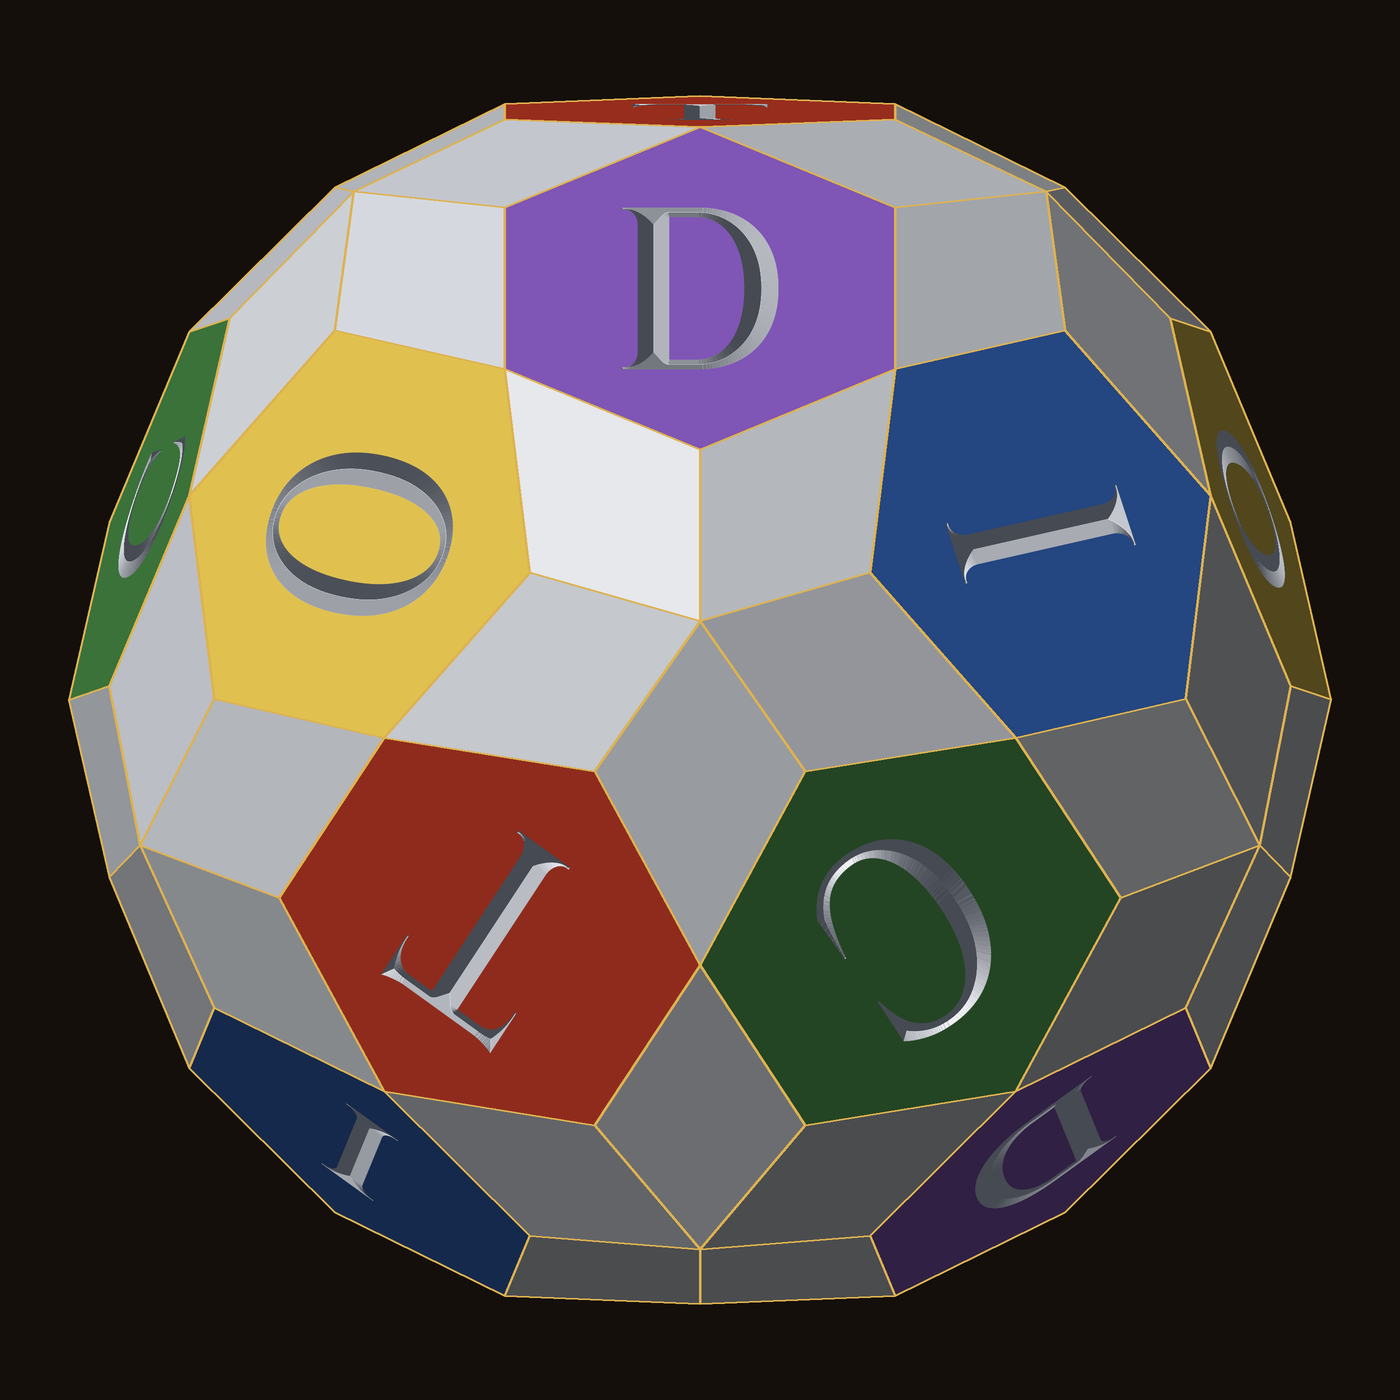
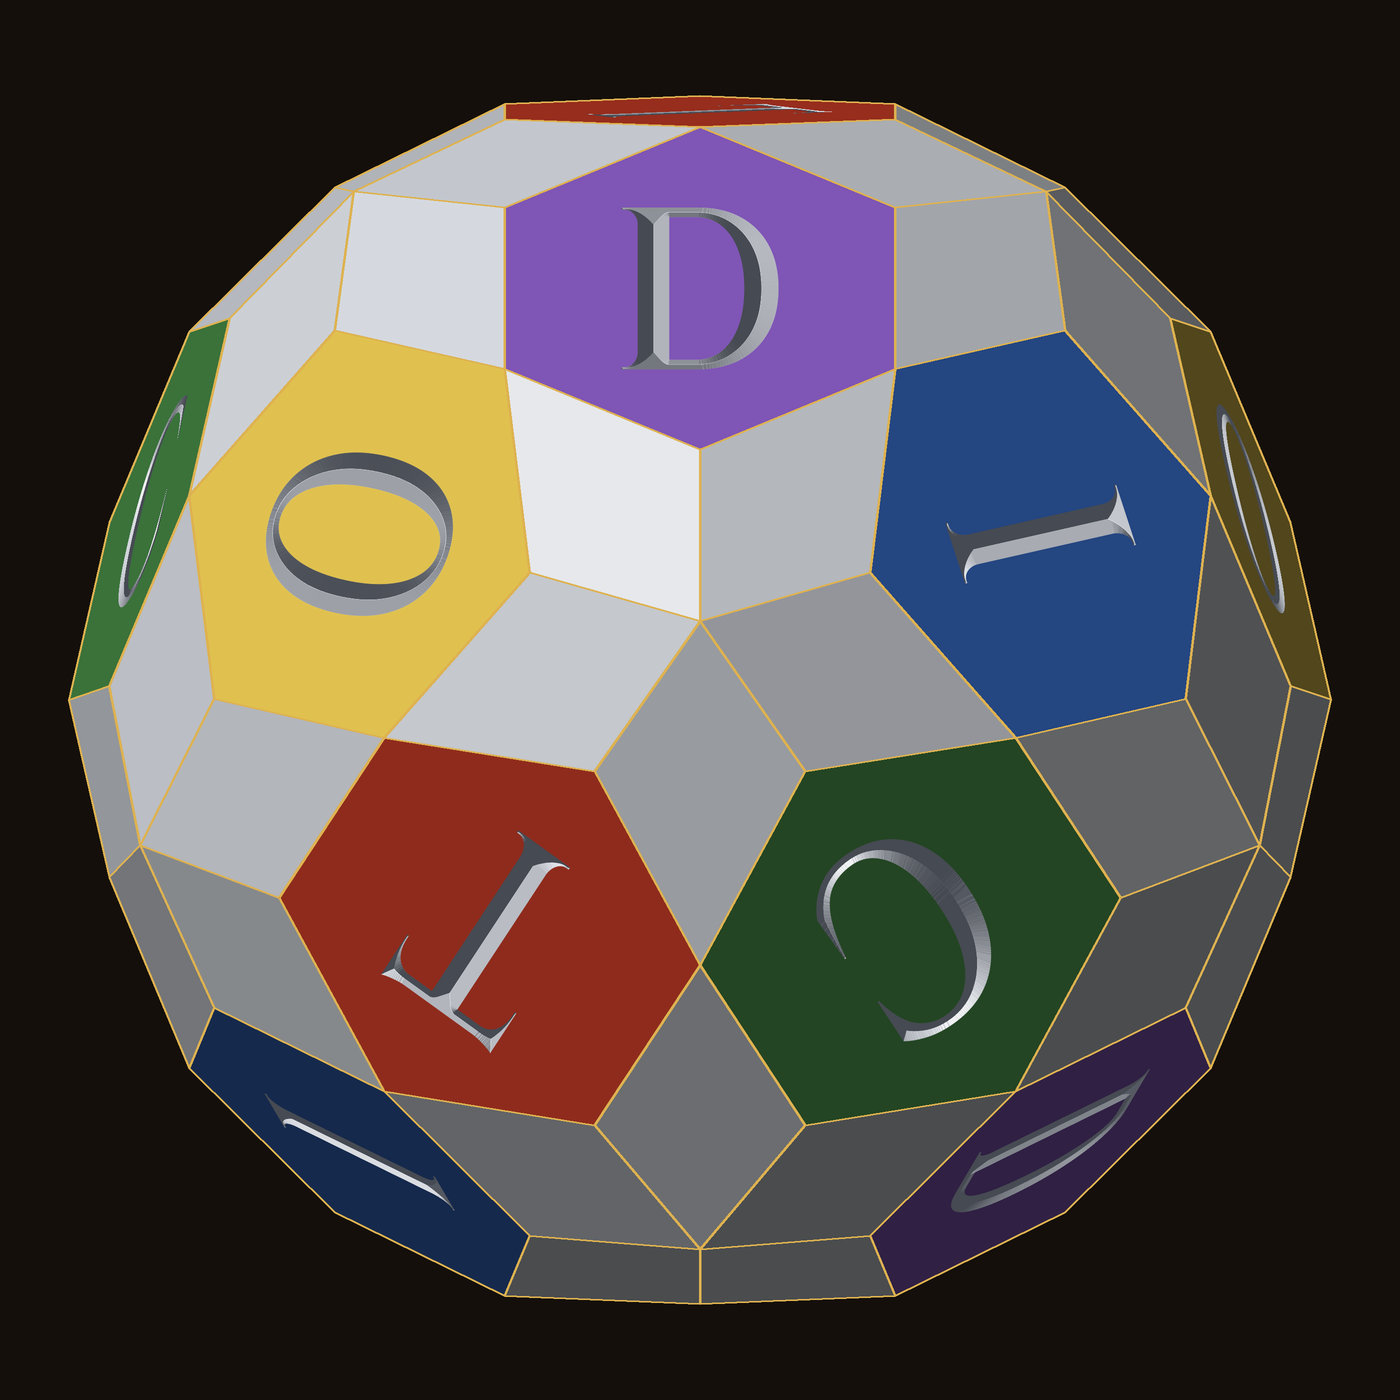
OG letters: each outer letter turned to its own star; lettering A kept; square-rule checks (DICTO)

diff --git a/studies/2026-10-22-dicto-square/og_letters.py b/studies/2026-10-22-dicto-square/og_letters.py
@@ -29,7 +29,14 @@ c0=V[ring[0]].mean(0); spin=math.atan2(c0[0],c0[1])     # turn so the first hexa
 V=V@rot((0,0,1),spin).T
 TILT=rot((1,0,0),-0.12)                                # a slight tilt, as in the figure
 V=V@TILT.T
-AXIS=np.array([0,0,1.0])@TILT.T                         # the five-fold axis through the star's centre
+AXIS=np.array([0,0,1.0])@TILT.T                         # the five-fold axis through the centre star
+# each hexagon lies round three stars; its own star is the one of those three that faces the viewer most
+# (for the five round the centre, the centre star); its letter lines up with that star (DICTO)
+STARS=[V[q]/np.linalg.norm(V[q]) for q in deg if deg[q]==5]
+OWN={}
+for f in [f for f in F if len(f)==6]:
+    c=V[f].mean(0)/np.linalg.norm(V[f].mean(0)); three=sorted(STARS,key=lambda a:-(a@c))[:3]
+    OWN[tuple(f)]=max(three,key=lambda a:a[2])
 ring_c={tuple(f):V[f].mean(0) for f in ring}
 order=sorted(ring,key=lambda f:(math.atan2(ring_c[tuple(f)][0],ring_c[tuple(f)][1])+0.6)%(2*math.pi))   # clockwise from the top
 RINGLET={tuple(f):ch for f,ch in zip(order,'DICTO')}
@@ -77,7 +84,7 @@ def render(img,cx,cy,rad,SS=2):
             # facet frame: U to the right on screen, Vv up on screen, both in the facet's plane
             # letters set in a circle round the centre of the star (DICTO): each letter's upright points away
             # from the five-fold axis through the star's centre, tops outward, like letters round a coin
-            c=V[f].mean(0); ax_=AXIS; rad=c-ax_*(c@ax_); Vv=rad-n*(rad@n); Vv/=np.linalg.norm(Vv); U=np.cross(Vv,n)
+            c=V[f].mean(0); ax_=OWN[tuple(f)]; rad=c-ax_*(c@ax_); Vv=rad-n*(rad@n); Vv/=np.linalg.norm(Vv); U=np.cross(Vv,n)
             r=np.linalg.norm(V[f]-c,axis=1).min()            # inradius-ish
             px=int(2*r*s*1.2); M,gx,gy=carve_tile(LET[tuple(f)],px)
             hx,hy=r*0.6,r*0.92                                   # elongated Trajan forms: tall and narrow

diff --git a/studies/2026-10-22-dicto-square/og_square_rule.py b/studies/2026-10-22-dicto-square/og_square_rule.py
@@ -1,0 +1,22 @@
+# The DICTO square's neighbour rule on the OG: in the square, side-by-side cells always hold letters that are
+# neighbours in the cycle D-I-C-T-O-D (D next to I or O, never C or T). Neighbouring hexagons on the OG are the
+# consecutive hexagons round a star (30 pairs). How many pairs can follow the rule at best?
+import json, random, numpy as np
+G=json.load(open('og-geometry.json')); V=np.array(G['v']); H=[f for f in G['f'] if len(f)==6]
+C=np.array([V[f].mean(0) for f in H]); C/=np.linalg.norm(C,axis=1)[:,None]; Dd=C@C.T
+E=[(i,j) for i in range(20) for j in range(i+1,20) if abs(Dd[i,j]-Dd[0][np.argsort(-Dd[0])[1]])<1e-6]
+print('neighbour pairs', len(E))
+good=lambda L,i,j: (L[i]-L[j])%5 in (1,4)
+best=0; random.seed(1); bestL=None
+for run in range(4000):
+    L=[random.randrange(5) for _ in range(20)]
+    for it in range(400):
+        i=random.randrange(20); old=L[i]; s0=sum(good(L,a,b) for a,b in E)
+        L[i]=random.randrange(5); s1=sum(good(L,a,b) for a,b in E)
+        if s1<s0 and random.random()>0.05: L[i]=old
+    s=sum(good(L,a,b) for a,b in E)
+    if s>best: best=s; bestL=L[:]
+print('best pairs following the rule:', best, 'of', len(E))
+print('letters used:', {c:bestL.count(k) for k,c in enumerate('DICTO')})
+# a proof bound: each of the 12 rings of five is an odd cycle; following the rule all round it would need DICTO
+# in order round that star (shown impossible for all 12 at once in og_star_letters.py); each pair lies in 2 rings.

diff --git a/studies/2026-10-22-dicto-square/README.md b/studies/2026-10-22-dicto-square/README.md
@@ -14,3 +14,4 @@ og_letters.py -> og-letters.png: the DICTO Ogdoecontahedron along a five-fold ax
 Colour version (default, DICTO): each lettered hexagon in its element colour, the kites (stars of five) in platinum; TINT=0 -> og-letters-stone.png, the plain stone version.
 All 20 hexagons lettered and coloured like the DICTO square (DICTO): they fall into the five tetrahedra of the compound of five (centres pairwise at cos −1/3; 10 such tetrahedra, 2 mirror compounds, the first used); each tetrahedron takes the letter of its hexagon in the centre ring, so no neighbours share a letter and the partial hexagons at the rim show fragments. Elongated Trajan forms (0.8 × 1.22 of the hexagon's inradius).
 Letters set in a circle round the centre of the star (DICTO): each letter's upright points away from the five-fold axis through the star's centre, tops outward.
+Lettering A kept (DICTO): every star has each letter once, each letter on four hexagons at the corners of a regular tetrahedron, DICTO in order round the centre star. The square's neighbour rule cannot carry over (og_star_letters.py: no lettering reads DICTO in order round all 12 stars; og_square_rule.py: at best 27 of 30 neighbour pairs, lettering A 15 of 30). Each outer letter lines up with its own star (of its three, the one facing the viewer most).
